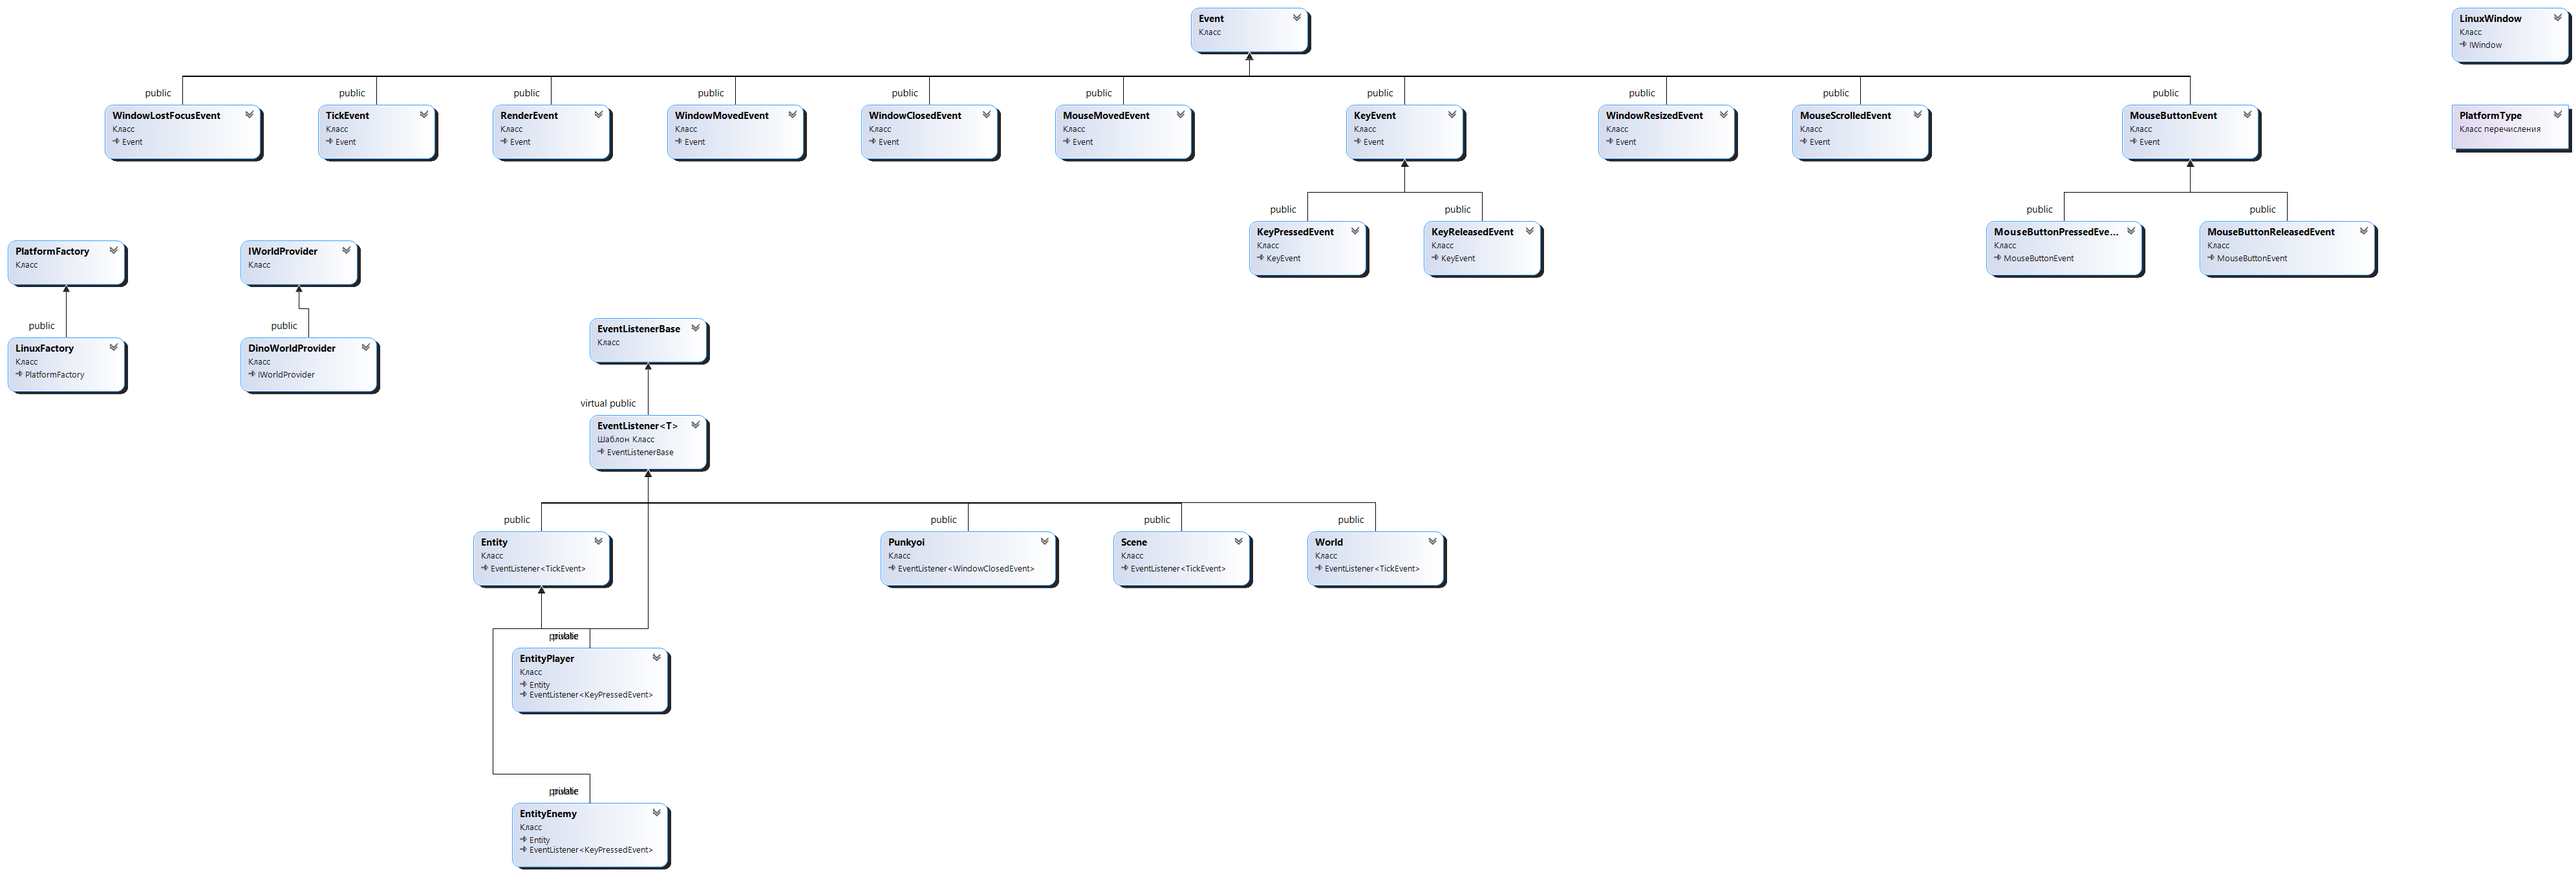
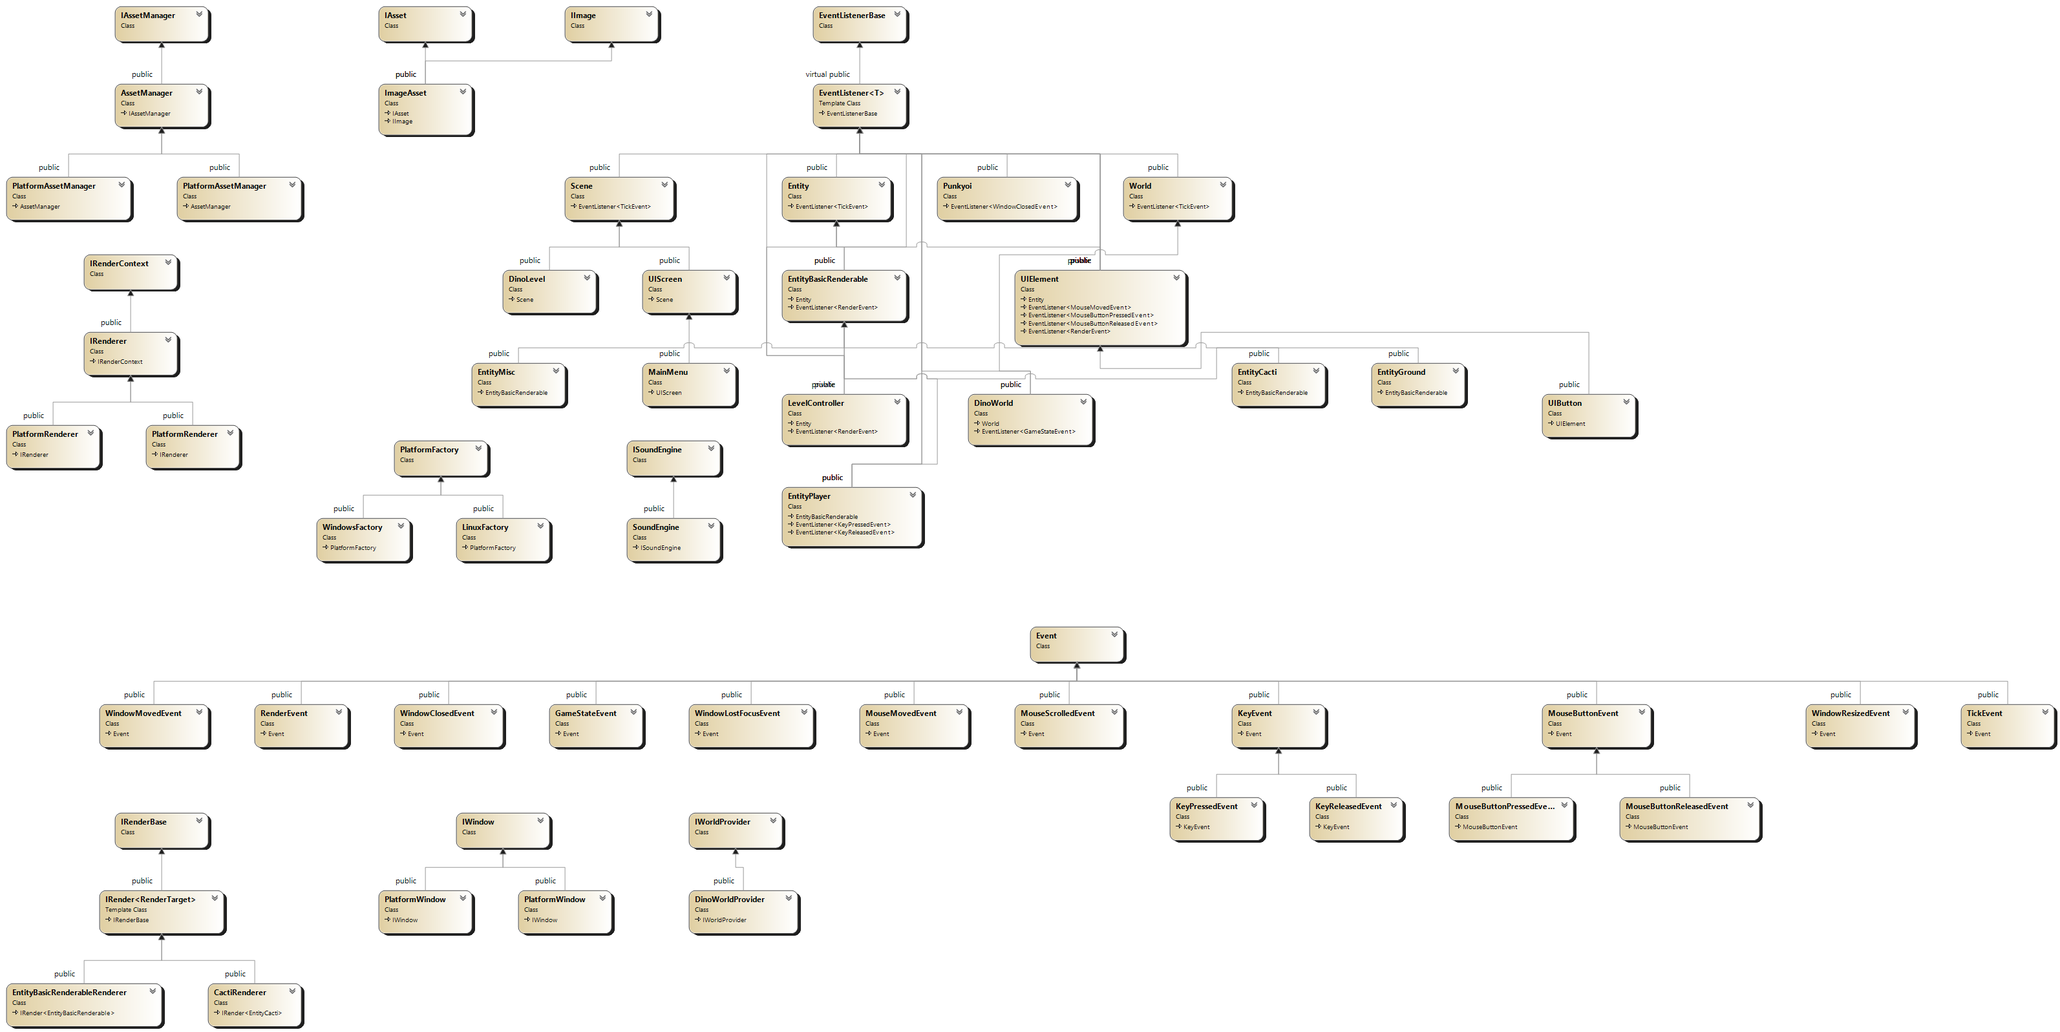
checkpoint 2

diff --git a/src/game/concrete/dinoworld.cpp b/src/game/concrete/dinoworld.cpp
@@ -14,18 +14,14 @@ namespace punkyoi::concrete {
         background->getPosition().y = -background->getScale().y / 2;
         addEntity(background);
         object<UIButton> playB = new_instance<UIButton>(*this, "ui.button.play", "ui.button.play_hover", vec2(0), vec2(0.35), [this]() {
-            this->m_pendingState = 1;
+            ::punkyoi::events::GameStateEvent event(1);
+            ::punkyoi::getEventBus().postEvent(event);
         });
         addEntity(playB);
     }
 
     void MainMenu::unload() {
         UIScreen::unload();
-        m_pendingState = 0;
-    }
-
-    size_t MainMenu::getState() {
-        return m_pendingState;
     }
 
     DinoLevel::DinoLevel() {
@@ -85,16 +81,16 @@ namespace punkyoi::concrete {
 
     void DinoWorld::onEvent(::punkyoi::events::TickEvent& event) {
         World::onEvent(event);
-        if (m_mainMenu->getState() == 1) {
-            m_mainMenu->close();
-            pushScene(m_level);
-        }
     }
 
     void DinoWorld::onEvent(::punkyoi::events::GameStateEvent& event) {
         if (event.getState() == 0 && m_level->isActive()) {
             m_level->close();
             pushScene(m_mainMenu);
+        }
+        if (event.getState() == 1 && m_mainMenu->isActive()) {
+            m_mainMenu->close();
+            pushScene(m_level);
         }
     }
 }

diff --git a/src/game/concrete/dinoworld.h b/src/game/concrete/dinoworld.h
@@ -15,9 +15,7 @@ namespace punkyoi::concrete {
 
         virtual void load(::punkyoi::common::World& world) override;
         virtual void unload() override;
-        virtual size_t getState();
     protected:
-        size_t m_pendingState;
         ::punkyoi::common::World* m_world;
     };
 

diff --git a/README.md b/README.md
@@ -1,9 +1,18 @@
 # Punkyoi
 ## The 2D game
-Basic API and strcture is implemented
+Punkyoi is a 2D runner game inspired by the Chrome's Dino game.
+#### Controlls:
+- Jump - space
+- Pull to the ground - left shift
+
 ## Used patterns
 - Builder - IWorldProvider, EndpointBuilder
 - Factory - PlatformFactory
+- Singletone - Punkyoi
+- Observer - Entity, EventListener
+- Adaptor AssetManager
+- CoR - EventListener + EventBus
+- Command - Event
 
 # UML Diagrams
 ## Basic
@@ -11,10 +20,19 @@ Basic API and strcture is implemented
 ## Extended
 ![alt](ClassDiagramFull.png)
 
+## Class interaction
+![alt](InteractionDiagram.png)
+
 # Build instructions
+[Premake 5](https://premake.github.io/) is required to build Punkyoi.
+
+Supported platforms:
+- Linux (Ubuntu 20.04+)
+- Windows (Windows 10)
+
 ## Linux
 - ### Manual with premake5
-    This project uses premake5 to generate Makefile
+    Using premake5 to generate Makefile
 
     Dependencies:
     ```console
@@ -25,7 +43,7 @@ Basic API and strcture is implemented
     Project
     ```console
     $ premake5 gmake
-    $ make config=release
+    $ make config=release_x86_64
     ```
 
 - ### Build script
@@ -34,7 +52,7 @@ Basic API and strcture is implemented
     ```
 ## Windows
 - ### Manual with premake5
-    This project uses premake5 to generate Visual Studio solution
+    Using premake5 to generate Visual Studio solution
 
     ```console
     $ premake5 vs2022
